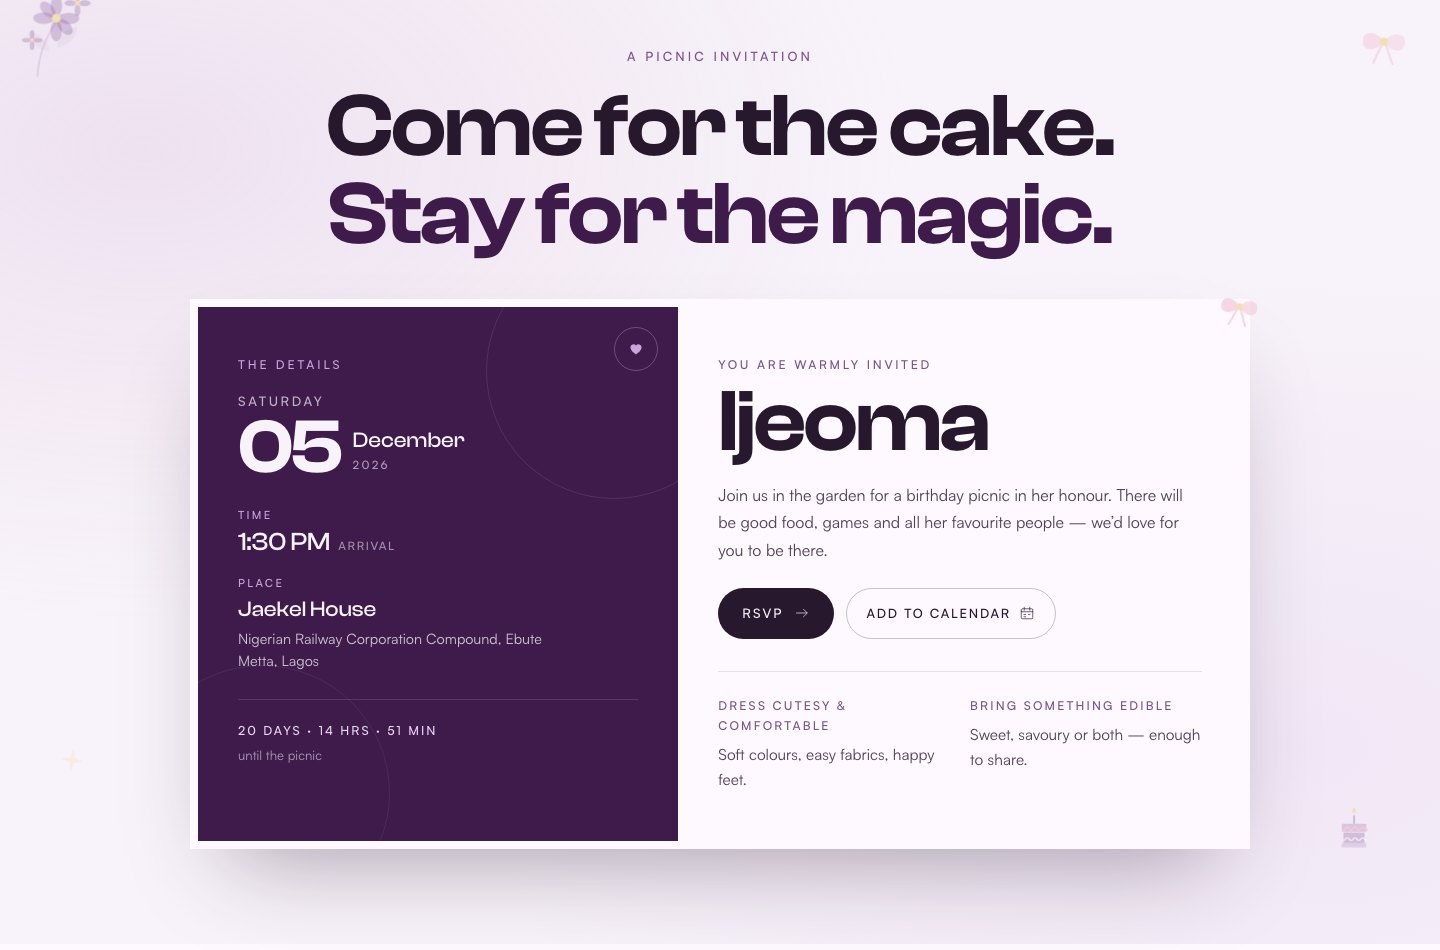
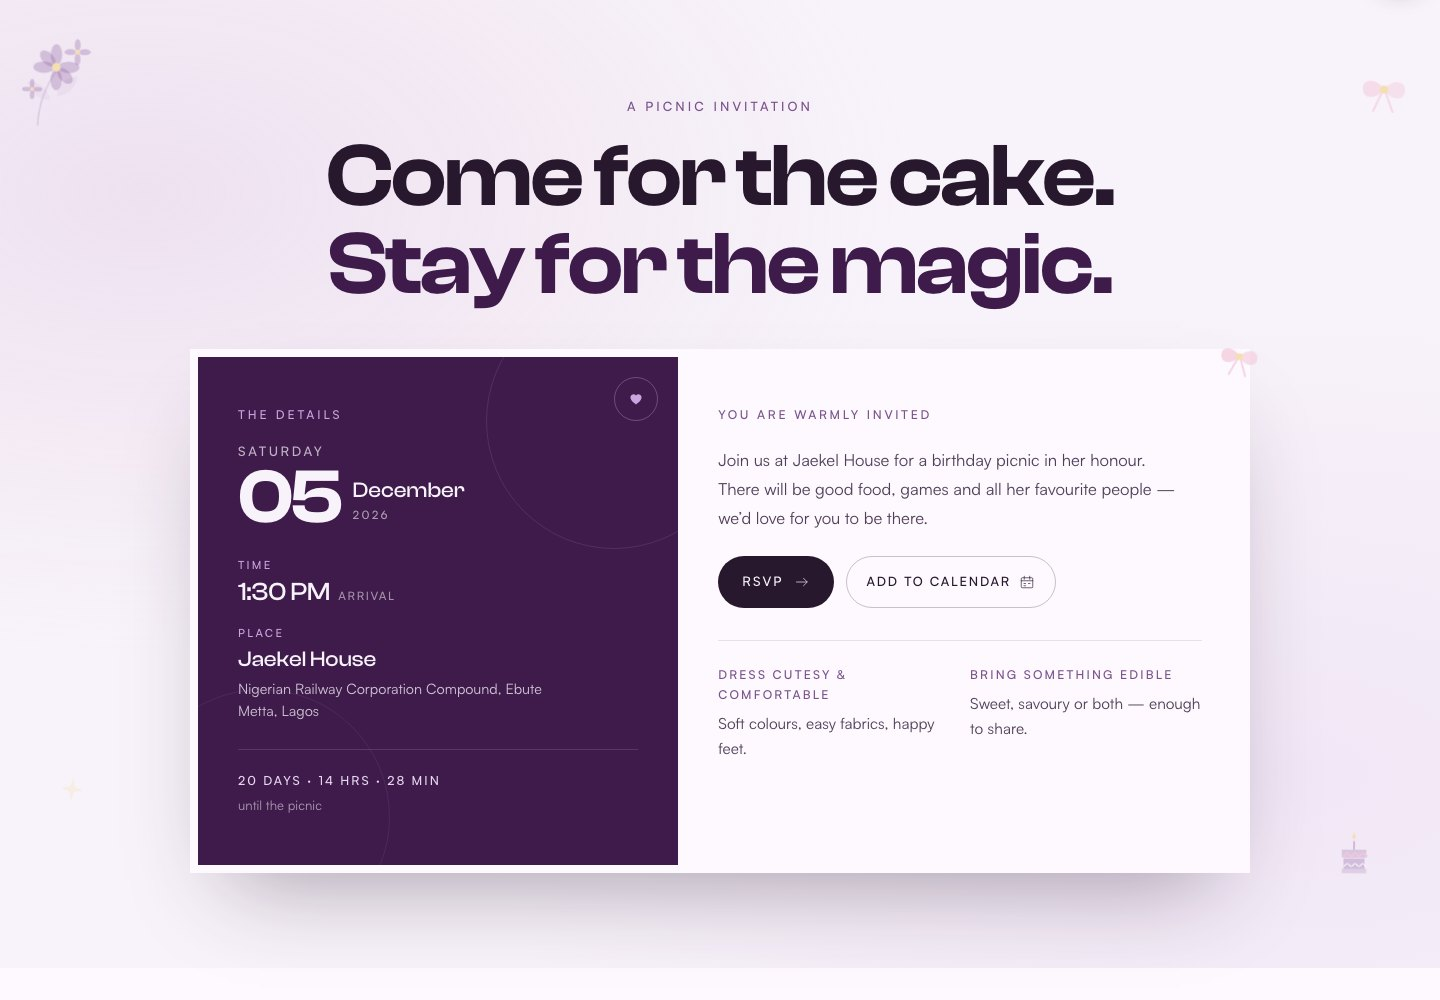
Remove invitation name and story sign-off

diff --git a/src/components/Invitation.jsx b/src/components/Invitation.jsx
@@ -121,11 +121,8 @@ export default function Invitation() {
                 <p className="text-[0.76rem] font-medium uppercase tracking-[0.22em] text-orchid-dark">
                   You are warmly invited
                 </p>
-                <h3 className="mt-2 font-serif text-[clamp(3.5rem,7vw,5.5rem)] font-semibold leading-[0.9] tracking-[-0.03em] text-ink">
-                  Ijeoma
-                </h3>
-                <p className="mt-5 max-w-[470px] text-[1rem] leading-[1.7] text-ink-soft">
-                  Join us in the garden for a birthday picnic in her honour. There
+                <p className="mt-5 max-w-[470px] text-[1.04rem] leading-[1.75] text-ink-soft">
+                  Join us at Jaekel House for a birthday picnic in her honour. There
                   will be good food, games and all her favourite people — we’d love
                   for you to be there.
                 </p>

diff --git a/src/components/Story.jsx b/src/components/Story.jsx
@@ -54,9 +54,6 @@ export default function Story() {
               Ijeoma, our favourite Tweety: this whole day is for you. Happy
               birthday, beautiful. Go on and blush — we planned for it.
             </p>
-            <p className="mt-5 font-serif text-[1.05rem] font-medium tracking-[-0.01em] text-plum">
-              With all our love, your people.
-            </p>
           </Reveal>
         </div>
 

diff --git a/README.md b/README.md
@@ -36,7 +36,7 @@ Directions: **+234 703 562 8526** or **+234 705 718 8970**.
 - **Extras:** continuous site-wide ribbon-heavy confetti rain with periodic ribbon bursts, animated flower sprays, cakes, ribbons and floating petals across the sections, opening confetti, confetti on saved gifts, soft dust, scroll reveals and reduced-motion support.
 - **Music hint:** a floating music-note trigger with a downward arrow at the bottom right. It only starts or resumes the music — it never stops it.
 
-The main page is intentionally much shorter than the previous version: roughly **7,000px on desktop** and **9,100px on mobile**, with repeated copy removed.
+The main page is intentionally much shorter than the previous version: roughly **7,000px on desktop** and **9,000px on mobile**, with repeated copy removed.
 
 ## Money gifts
 
